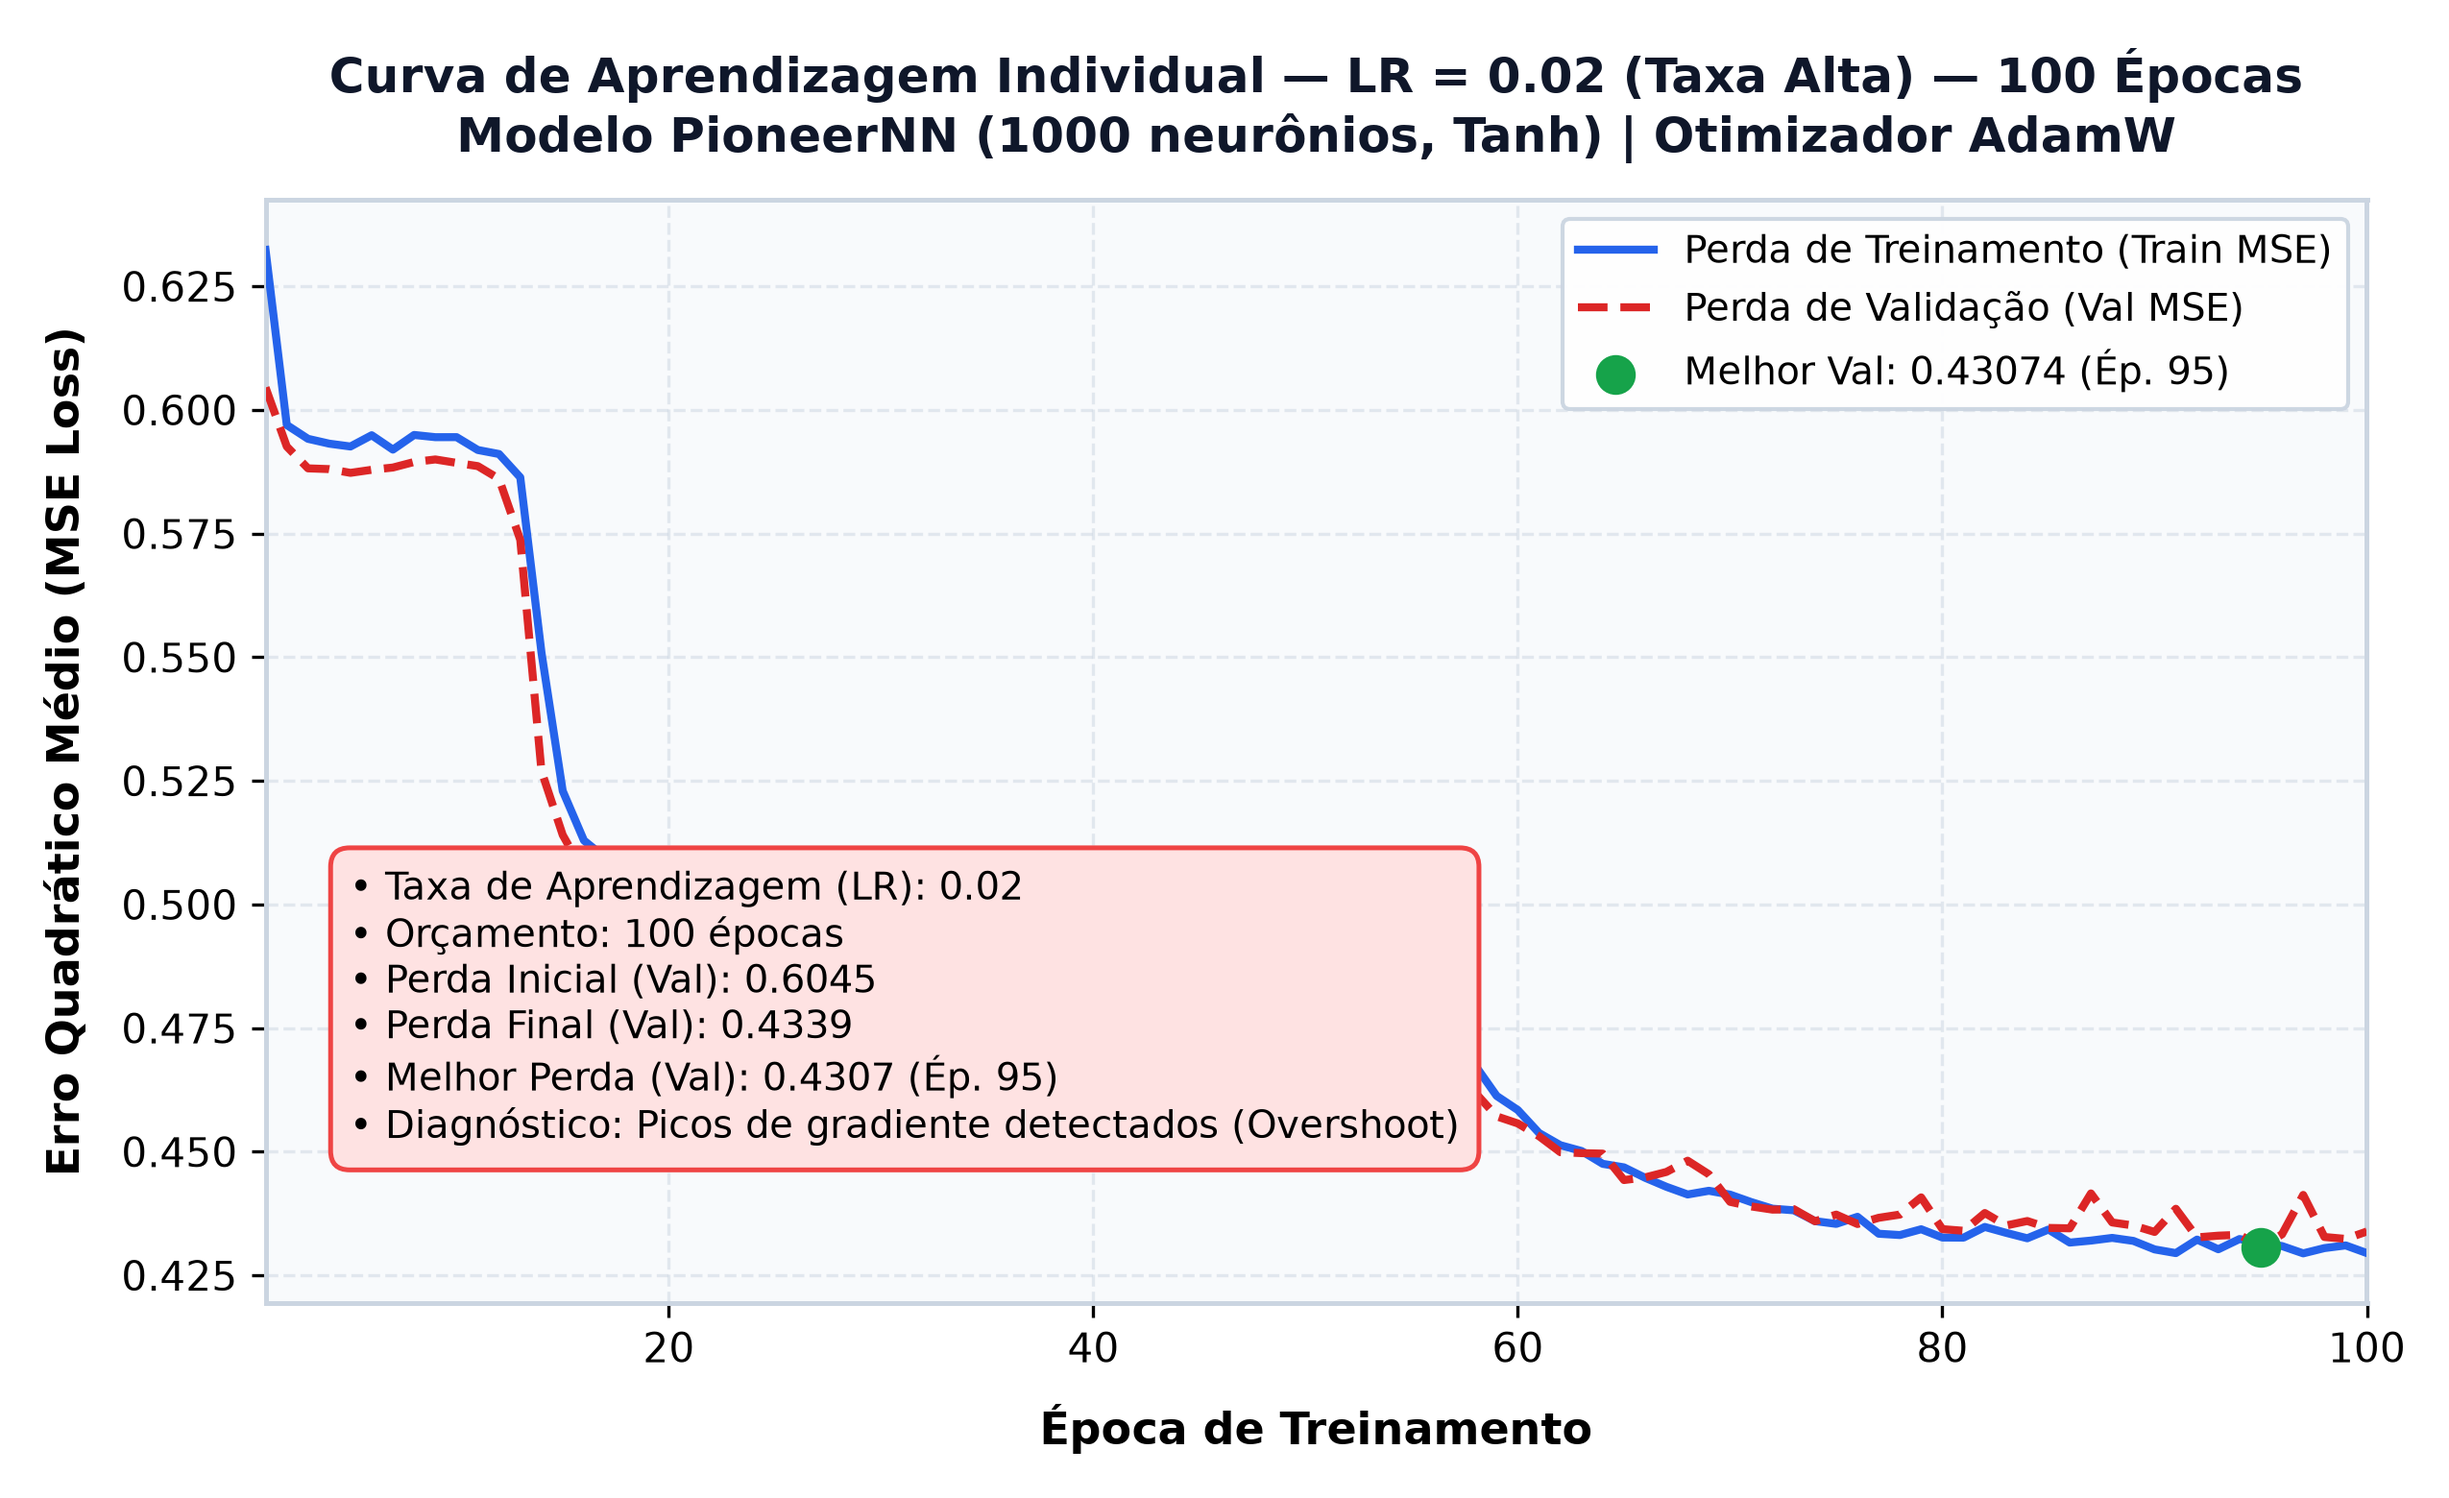
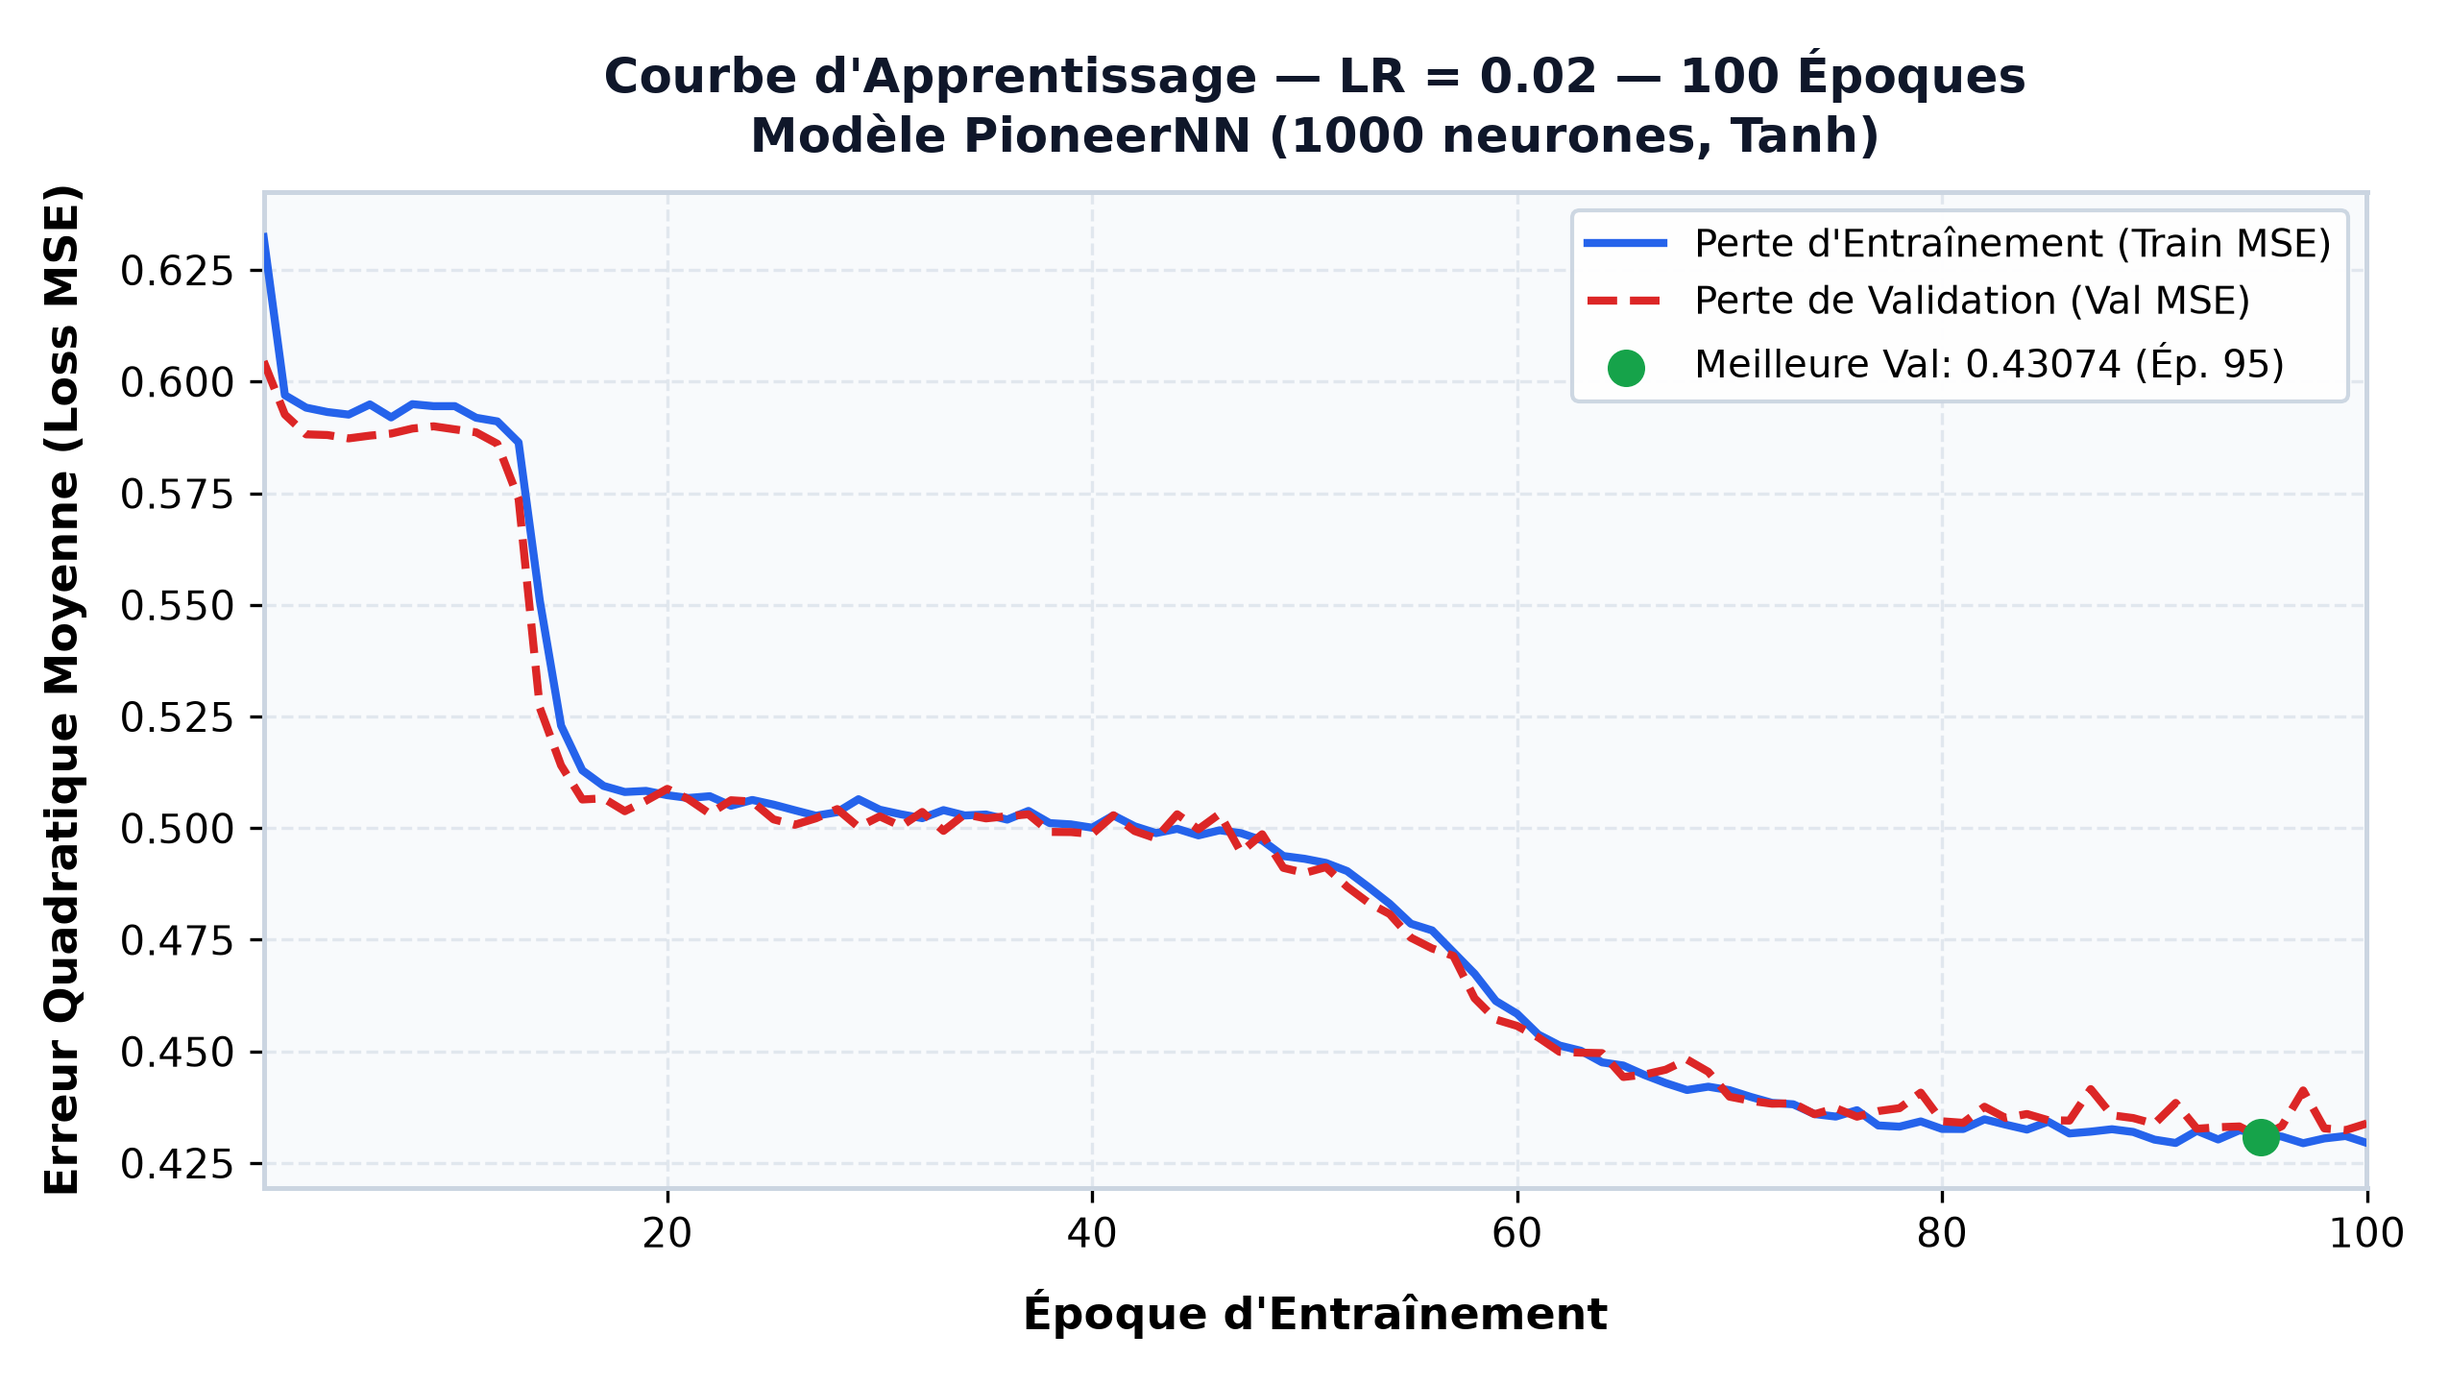
style: remove info text boxes from individual learning curve plots

diff --git a/src/run_individual_trainings.py b/src/run_individual_trainings.py
@@ -100,40 +100,6 @@ def plot_single_learning_curve(lr, ep_count, epochs_hist, train_loss_hist, val_l
                  fontsize=12, fontweight="bold", pad=12, color="#0f172a")
 
     ax.set_xlim(1, ep_count)
-    
-    # Check for loss spikes
-    has_spikes = any(l > 0.5 for l in val_loss_hist)
-    
-    # Diagnostic box
-    init_loss = val_loss_hist[0]
-    final_loss = val_loss_hist[-1]
-    
-    if has_spikes:
-        diag = "Picos de gradiente detectados (Overshoot)"
-        box_bg = "#fee2e2"
-        box_border = "#ef4444"
-    elif ep_count == 30 and lr == 0.001:
-        diag = "Sub-ajuste inicial (poucas épocas para LR baixa)"
-        box_bg = "#f1f5f9"
-        box_border = "#94a3b8"
-    else:
-        diag = "Convergência suave e consistente"
-        box_bg = "#dcfce7"
-        box_border = "#22c55e"
-
-    info_text = (
-        f"• Taxa de Aprendizagem (LR): {lr}\n"
-        f"• Orçamento: {ep_count} épocas\n"
-        f"• Perda Inicial (Val): {init_loss:.4f}\n"
-        f"• Perda Final (Val): {final_loss:.4f}\n"
-        f"• Melhor Perda (Val): {min_val:.4f} (Ép. {min_epoch})\n"
-        f"• Diagnóstico: {diag}"
-    )
-    
-    # Place text box in an empty spot (upper right if loss drops fast)
-    ax.text(0.04, 0.15, info_text, transform=ax.transAxes, fontsize=9.5,
-            bbox=dict(boxstyle="round,pad=0.5", fc=box_bg, ec=box_border, lw=1.2), zorder=6)
-
     ax.legend(framealpha=0.95, facecolor="#ffffff", edgecolor="#cbd5e1", fontsize=9.5, loc="upper right")
 
     plt.tight_layout()
